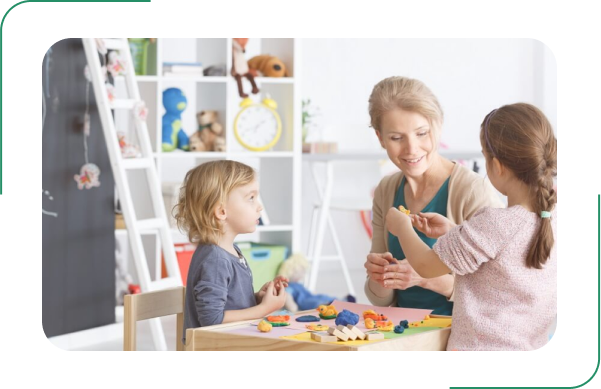
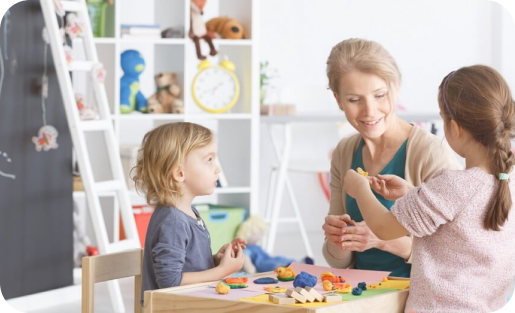
fred3

diff --git a/css/index.css b/css/index.css
@@ -57,7 +57,7 @@ select {
   font: inherit;
 }
 
-button{
+button {
   cursor: pointer;
 }
 
@@ -185,6 +185,10 @@ button{
   padding: 60px 0 148px;
 }
 
+.projects .wrapper{
+  padding: 0;
+}
+
 .projects__cards {
   display: flex;
   margin-top: 99px;
@@ -228,22 +232,56 @@ button{
   padding: 16px 44px;
 }
 
+.projects__card{
+  margin: 0 15px;
+}
+
 .projects__card__img img {
-  width: 374px;
+  width: 100%;
   height: 270px;
-  background: #FCFCFC;
   box-shadow: 0px 0px 20px 2px rgba(0, 0, 0, 0.15);
   border-radius: 10px 10px 0 0;
 }
+
 /* projects */
 
 /* about */
 .about {
+  background: url(../graphic/images/png/about-bg.png)no-repeat center;
   padding: 70px 0 77px;
 }
 
+.about__img::after, .about__img::before {
+  width: 150px;
+  height: 150px;
+  content: '';
+  position: absolute;
+  top: -37px;
+  left: -37px;
+  border: 2px solid #258F67;
+  border-bottom: none;
+  border-right: none;
+  border-top-left-radius: 30px;
+}
+
+.about__img::before {
+  top: unset;
+  left: unset;
+  bottom: -37px;
+  right: -37px;
+  transform: rotate(180deg);
+}
+
+.about__img {
+  margin-right: 37px;
+  position: relative;
+}
+
+.about__img img {
+  border-radius: 30px;
+}
+
 .about__contante {
-  background: url(../graphic/images/png/about-bg.png)no-repeat center;
   display: flex;
   justify-content: space-between;
   align-items: center;
@@ -257,11 +295,16 @@ button{
   line-height: 170%;
   margin-right: 100px;
 }
+
 /* about */
 
 /* tasks */
 .tasks {
   padding: 70px 0 220px;
+}
+
+.tasks .wrapper{
+  padding: 0;
 }
 
 .tasks__cards {
@@ -270,29 +313,31 @@ button{
   margin-top: 74px;
 }
 
-.tasks__card{
+.tasks__card {
   background: #258F67;
-    max-width: 400px;
-    box-shadow: 0px 4px 20px rgb(0 0 0 / 10%);
-    color: #F7F7F7;
-    border-radius: 20px;
-    padding: 30px 25px 50px 15px;
+  max-width: 400px;
+  box-shadow: 0px 4px 20px rgb(0 0 0 / 10%);
+  color: #F7F7F7;
+  border-radius: 20px;
+  padding: 30px 25px 50px 15px;
+  margin: 0 10px;
 }
 
-.tasks__card__title{
+.tasks__card__title {
   display: flex;
   justify-content: space-between;
   align-items: center;
 }
 
-.tasks__card__title span{
+.tasks__card__title span {
   font-weight: 600;
-    font-size: 26px;
+  font-size: 26px;
 }
 
-.tasks__card__txt{
+.tasks__card__txt {
   font-family: 'Arimo';
-    line-height: 140%;
-    margin-top: 15px;
+  line-height: 140%;
+  margin-top: 15px;
 }
+
 /* tasks */

diff --git a/index.html b/index.html
@@ -179,6 +179,19 @@
 		</div>
 	</section>
 
+	<footer class="footer">
+		<div class="wrapper">
+			<div class="footer__columns">
+				<div class="footer__column">
+					<div class="footer__column__el footer__column__el_title">Контакты</div>
+					<div class="footer__column__el"> <i class="fas fa-map-marker-alt"></i> ул. Гагарина, д. 9</div>
+					<div class="footer__column__el">ashura20142013@gmail.com</div>
+					<div class="footer__column__el">Публичная оферта</div>
+				</div>
+			</div>
+		</div>
+	</footer>
+
 	<script type="text/javascript" src="./js/index.js"></script>
 </body>
 
